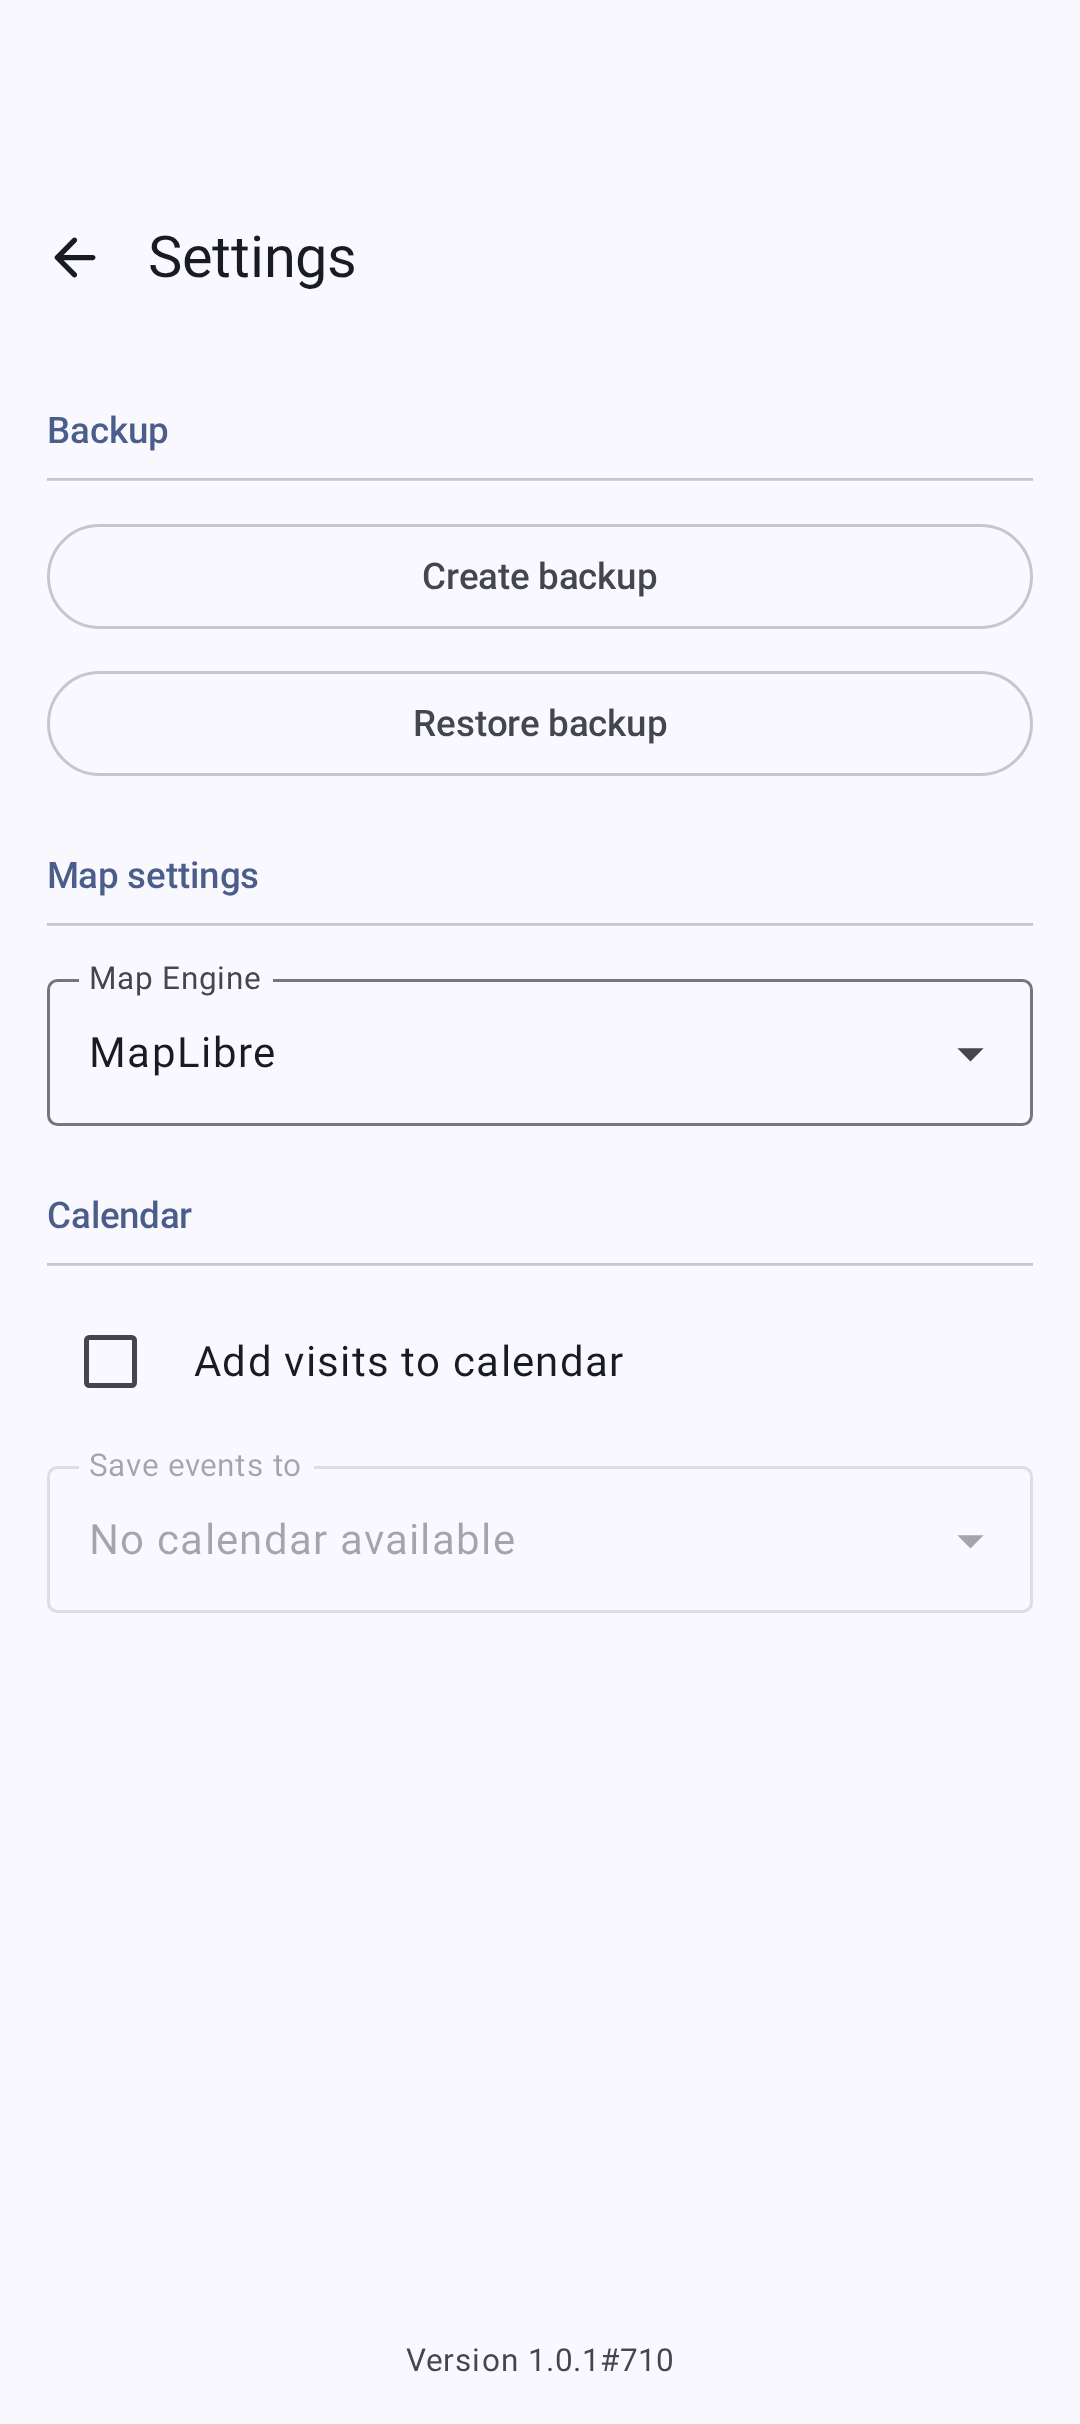
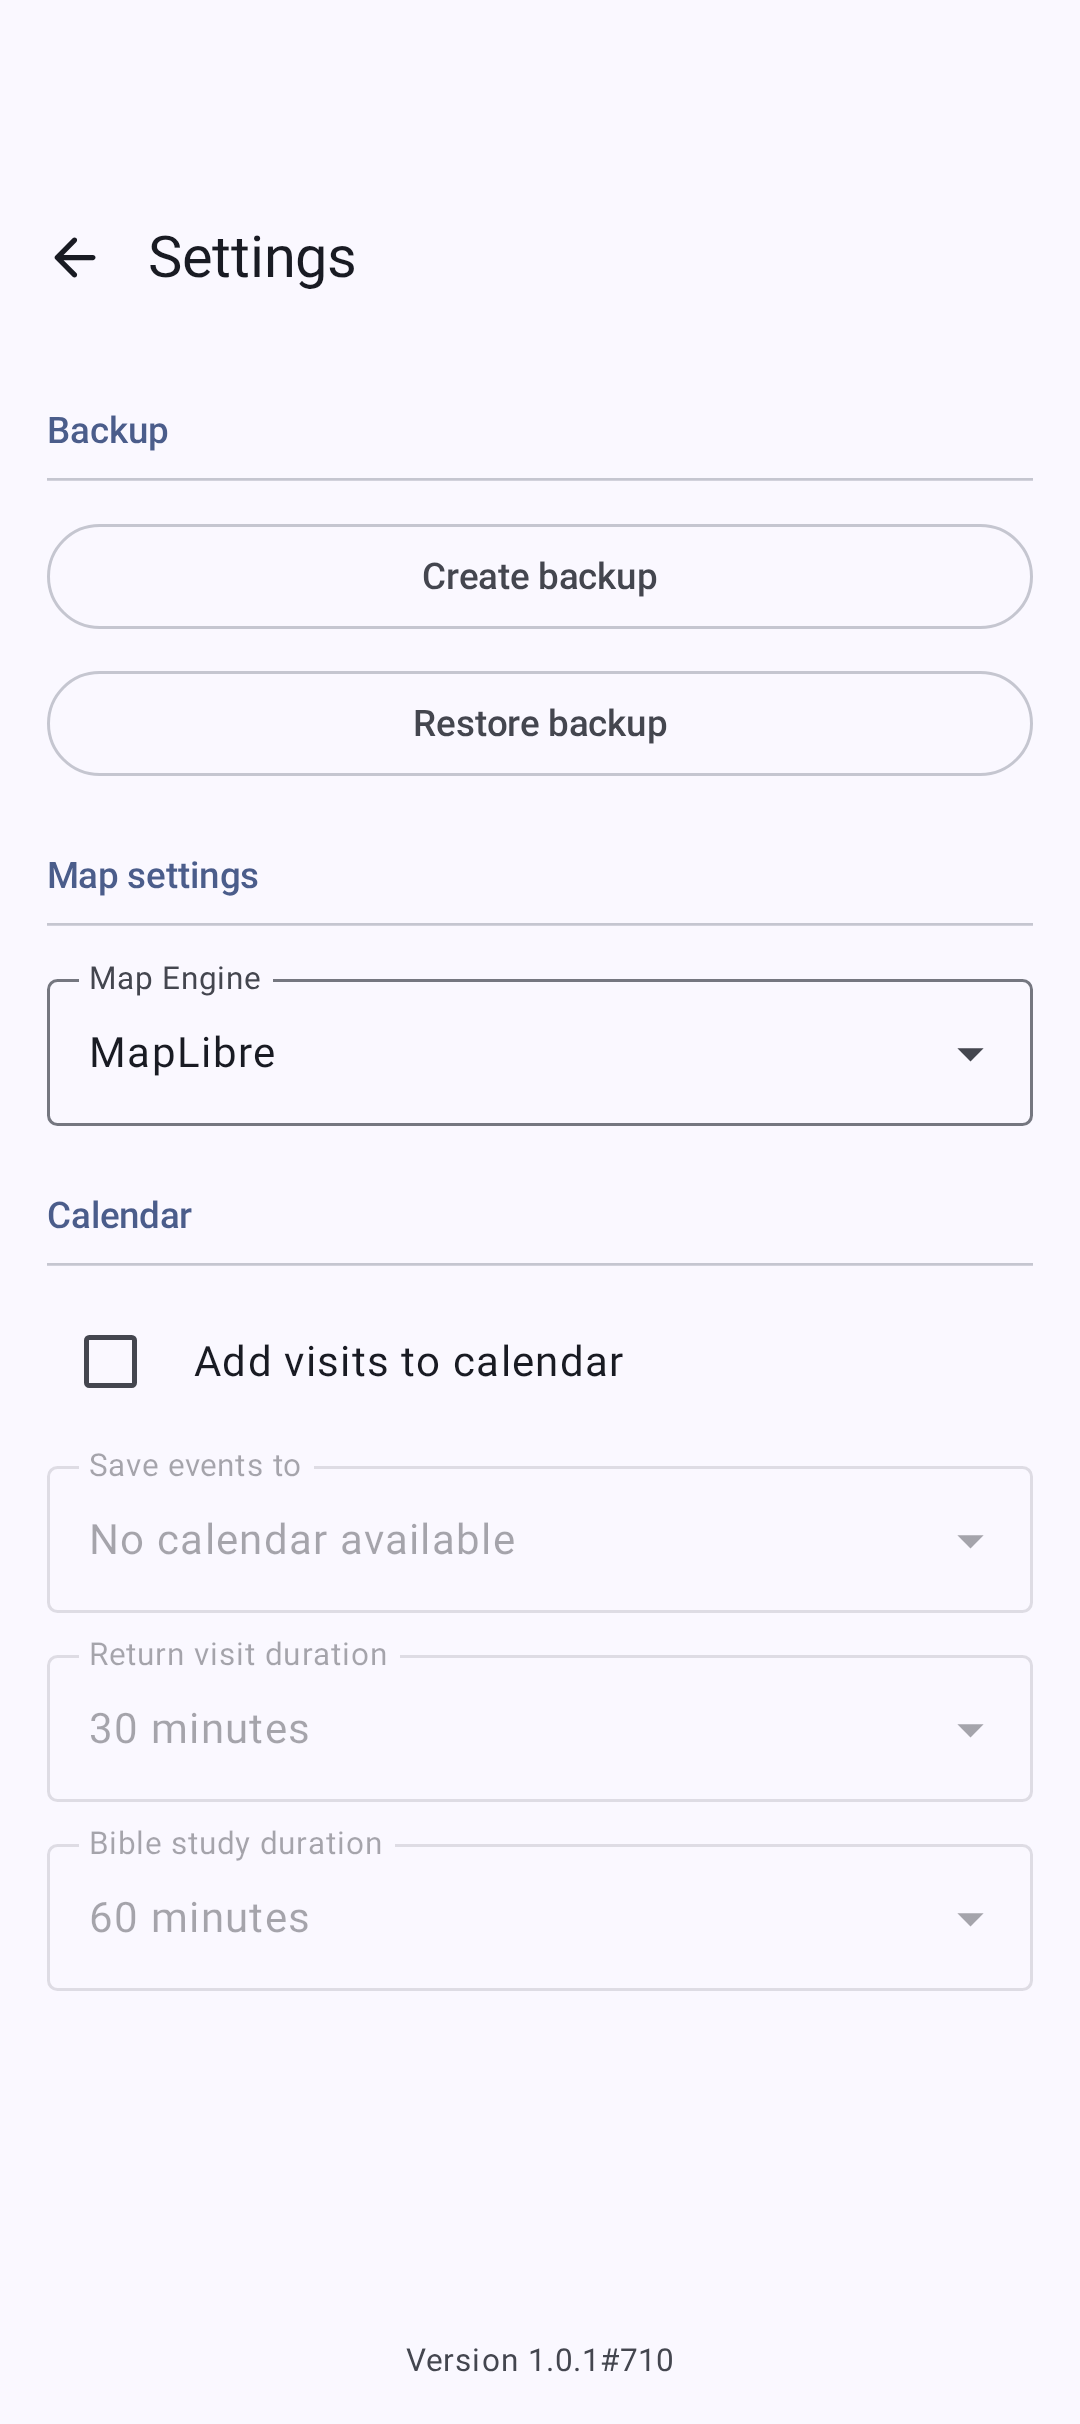
Regenerate Settings screenshot references
Every Settings baseline changes because the calendar section now shows the
two duration dropdowns; the two new preview variants add four references.
The restore snackbar is overlaid with the column's horizontal padding so it
keeps its previous width.

Claude-Session: https://claude.ai/code/session_013TiF4dxpgQ7pRC5YnMSZKr

Changed region(s): [[0.0917, 0.6807, 0.3361, 0.8045], [0.1833, 0.6807, 0.2139, 0.7116]]

diff --git a/app/src/main/java/com/msmobile/visitas/settings/SettingsScreen.kt b/app/src/main/java/com/msmobile/visitas/settings/SettingsScreen.kt
@@ -233,25 +233,28 @@ private fun SettingsScreenContent(
             Spacer(modifier = Modifier.height(16.dp))
         }
 
-        // Overlaid rather than inside the scrolling column, so it stays at the bottom of the screen.
-        when (uiState.backupResult) {
-            is SettingsDetailViewModel.BackupResult.RestoreFailure -> {
-                RestoreBackupSnackbar(
-                    modifier = Modifier.snackbarPadding(),
-                    message = uiState.backupResult.message
-                )
-            }
+        // Overlaid rather than inside the scrolling column, so it stays at the bottom of the screen;
+        // the padding matches the column's so the snackbar keeps the content width.
+        Box(modifier = Modifier.padding(horizontal = borderPadding + cardInnerPadding)) {
+            when (uiState.backupResult) {
+                is SettingsDetailViewModel.BackupResult.RestoreFailure -> {
+                    RestoreBackupSnackbar(
+                        modifier = Modifier.snackbarPadding(),
+                        message = uiState.backupResult.message
+                    )
+                }
 
-            is SettingsDetailViewModel.BackupResult.RestoreSuccess -> {
-                RestoreBackupSnackbar(
-                    modifier = Modifier.snackbarPadding(),
-                    message = uiState.backupResult.message
-                )
-            }
+                is SettingsDetailViewModel.BackupResult.RestoreSuccess -> {
+                    RestoreBackupSnackbar(
+                        modifier = Modifier.snackbarPadding(),
+                        message = uiState.backupResult.message
+                    )
+                }
 
-            is SettingsDetailViewModel.BackupResult.BackupCreationSuccess,
-            null -> {
-                // Do nothing
+                is SettingsDetailViewModel.BackupResult.BackupCreationSuccess,
+                null -> {
+                    // Do nothing
+                }
             }
         }
     }
